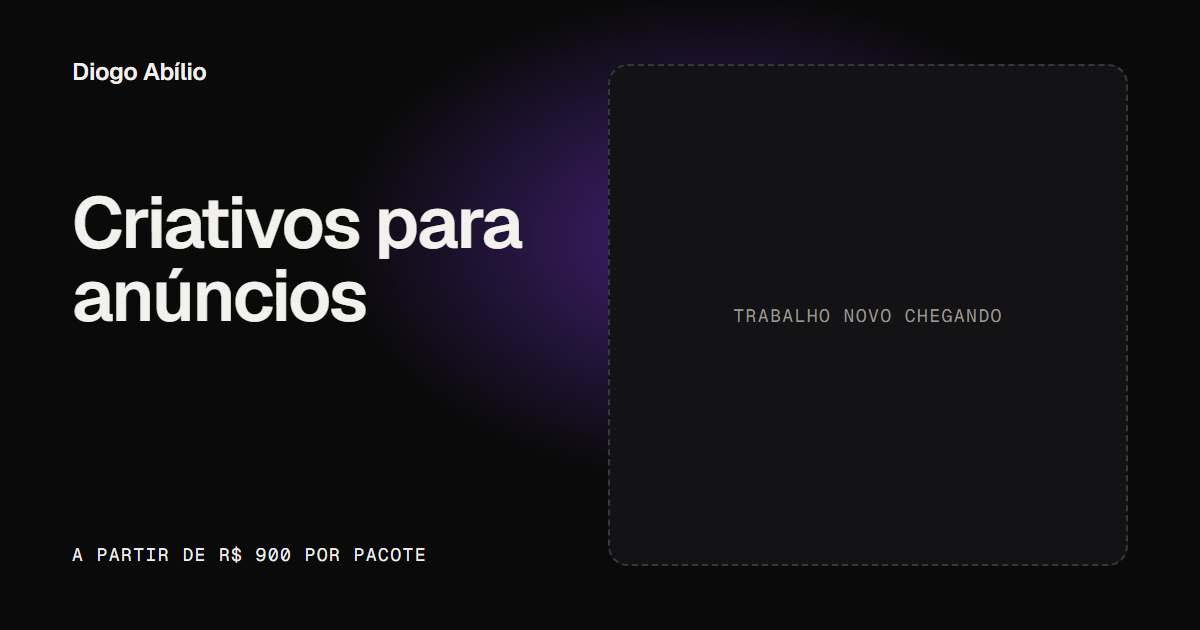
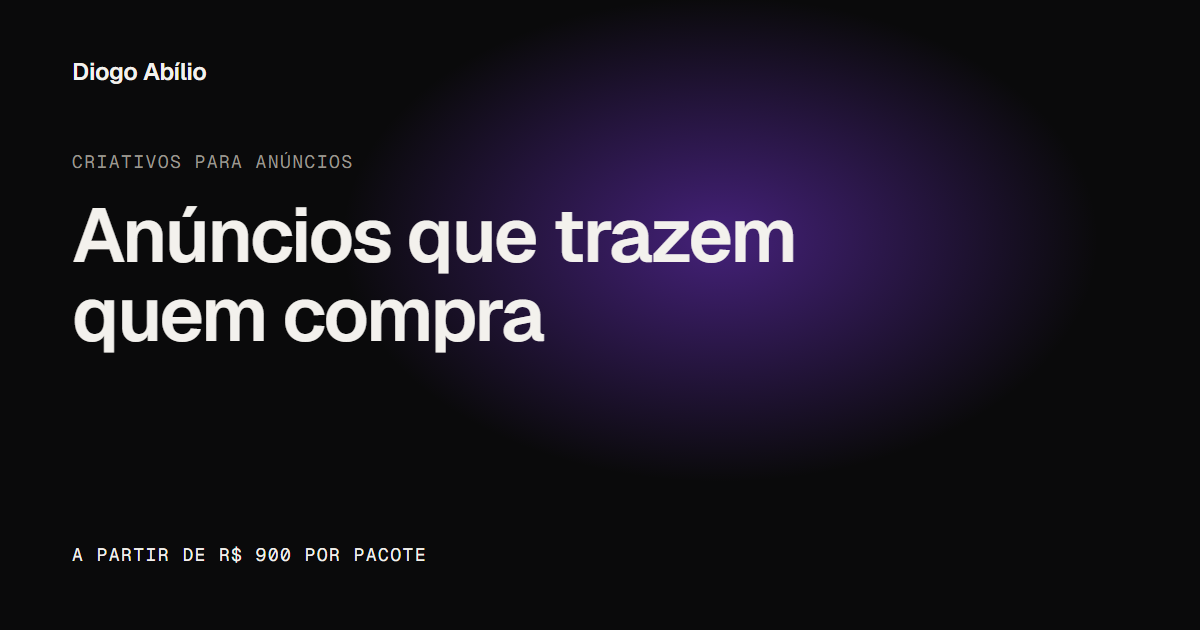
Copy review: outcome-led hero and service titles, quote CTAs on service pages, about numbers with context, SEO titles and OG images

Changed region(s): [[0.0617, 0.0905, 0.8325, 0.6635], [0.0617, 0.2413, 0.3083, 0.2714]]

diff --git a/src/styles.css b/src/styles.css
@@ -487,6 +487,7 @@ ul, ol { margin: 0; padding: 0; list-style: none; }
   overflow: hidden;
 }
 .bcard-body { padding: 22px 24px 24px; }
+.bcard-body .label { margin-bottom: 12px; }
 .bcard-body h3 { font-size: 24px; line-height: 1.2; letter-spacing: -0.02em; margin-bottom: 8px; }
 .bcard-body p { color: var(--muted); font-size: 17px; margin-bottom: 18px; max-width: 46ch; }
 .card-link { font-weight: 500; font-size: 16px; display: inline-flex; gap: 6px; }
@@ -985,6 +986,8 @@ html.modal-open { overflow: hidden; }
 
 .b-edu { grid-area: edu; display: flex; flex-direction: column; justify-content: space-between; gap: 20px; }
 .b-edu h3 { font-size: 20px; line-height: 1.3; letter-spacing: -0.01em; }
+.b-edu .label { margin-bottom: 12px; }
+.career-role b { font-weight: 600; color: var(--ink); }
 .chips { display: flex; flex-wrap: wrap; gap: 8px; }
 .chips li { padding: 6px 12px; border-radius: 999px; border: 1px solid var(--line-strong); background: var(--surface-2); font: 400 13px/1.3 var(--font-mono); }
 
@@ -1110,9 +1113,16 @@ html.modal-open { overflow: hidden; }
 .svc-top { position: relative; isolation: isolate; padding-top: calc(var(--nav-h) + 48px); padding-bottom: 56px; }
 .back { display: inline-flex; gap: 8px; font-size: 16px; text-decoration: none; color: var(--muted); margin-bottom: 32px; }
 .back:hover { color: var(--ink); }
-.svc-top .h1 { margin-bottom: 20px; }
+.svc-top .h1 { margin-bottom: 20px; max-width: 18ch; text-wrap: balance; }
 .svc-top .lead { font-size: 20px; max-width: 40ch; margin-bottom: 24px; }
 .svc-top .price { display: block; font-size: 15px; margin-bottom: 28px; }
+.svc-actions { display: flex; flex-wrap: wrap; align-items: center; gap: 16px 28px; }
+.svc-actions .link-u { color: var(--muted); }
+.svc-actions .link-u:hover { color: var(--ink); }
+@media (max-width: 560px) {
+  .svc-actions { flex-direction: column; align-items: stretch; }
+  .svc-actions .link-u { align-self: center; }
+}
 .work + .work { margin-top: 96px; }
 .work-head { margin-bottom: 24px; max-width: 720px; }
 .work-head h3 { font-size: clamp(24px, 3vw, 32px); letter-spacing: -0.02em; line-height: 1.15; margin-bottom: 6px; }
@@ -1165,6 +1175,7 @@ html.modal-open { overflow: hidden; }
 .case-feature-body .label { margin-bottom: 18px; }
 .case-feature-body h3 { font-size: clamp(24px, 2.6vw, 32px); line-height: 1.15; letter-spacing: -0.02em; margin-bottom: 14px; }
 .case-feature-body p { color: var(--muted); margin-bottom: 24px; max-width: 52ch; }
+.case-feature-body .case-scope { font: 400 13px/1.5 var(--font-mono); color: var(--muted); margin-top: -12px; }
 @media (max-width: 860px) {
   .case-feature { grid-template-columns: 1fr; }
   .case-feature-body { padding: 8px 20px 28px; }
